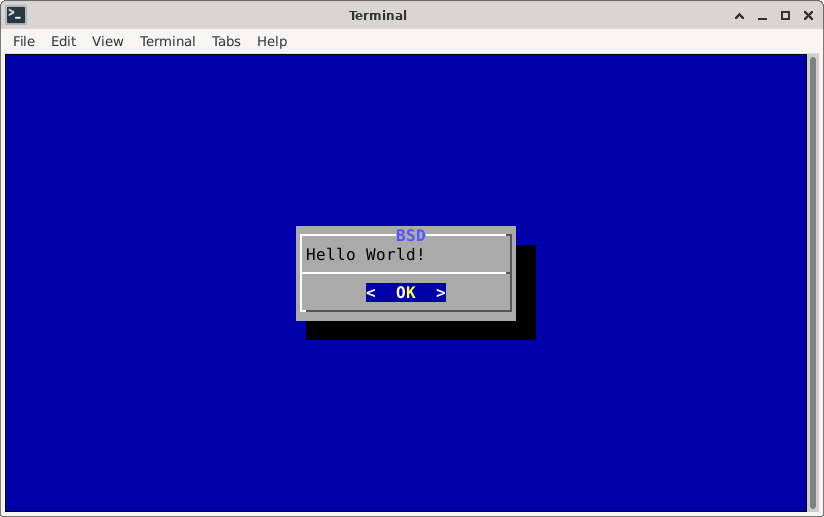
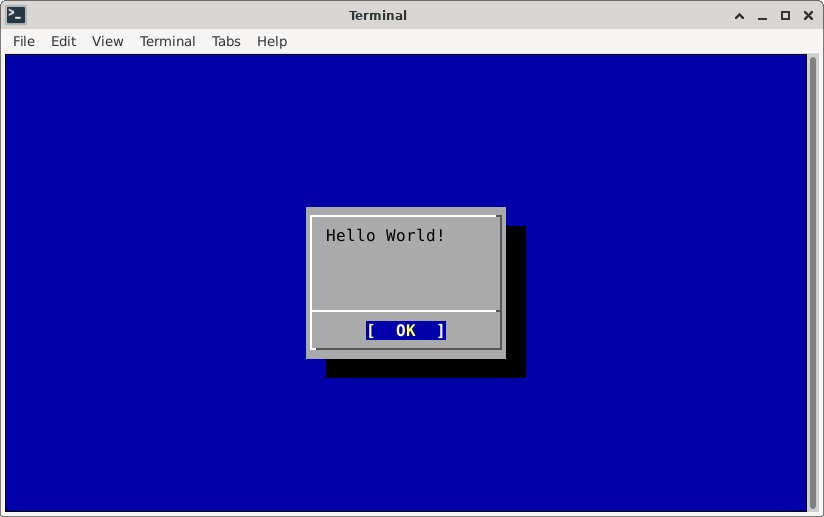
update Hello World

Changed region(s): [[0.3337, 0.4023, 0.6675, 0.7427]]

diff --git a/README.md b/README.md
@@ -15,7 +15,7 @@ Description:
 % git clone https://gitlab.com/alfix/bsddialog.git
 % cd bsddialog
 % make -D PORTNCURSES
-% ./bsddialog --title BSD --msgbox "Hello World!" 5 24
+% ./bsddialog --msgbox "Hello World!" 8 20
 ```
 Output:
 
